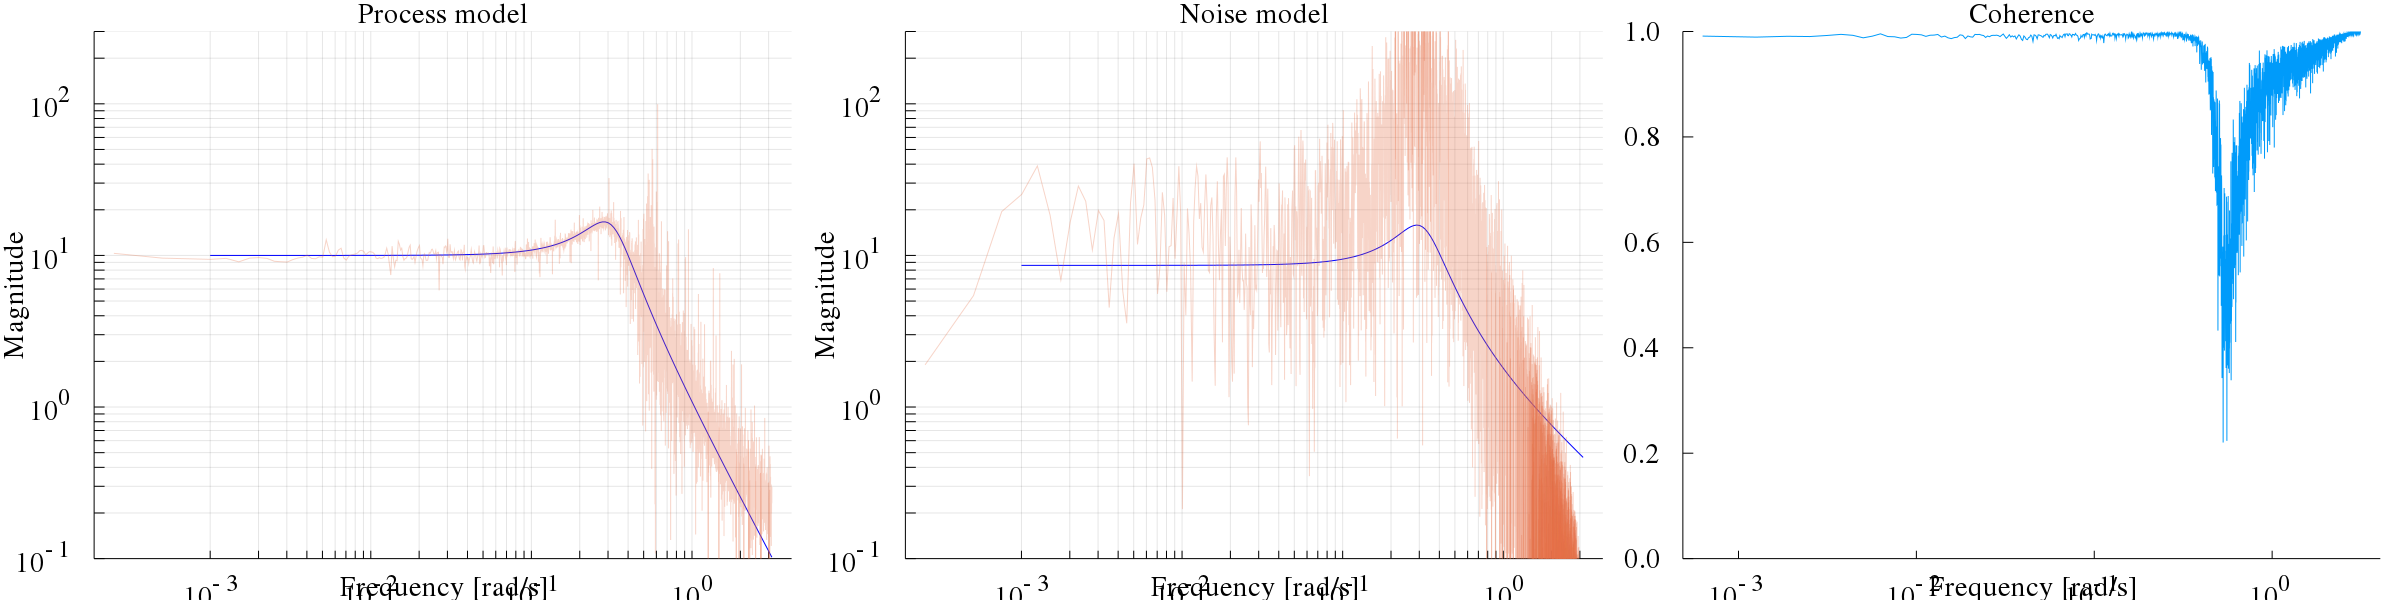
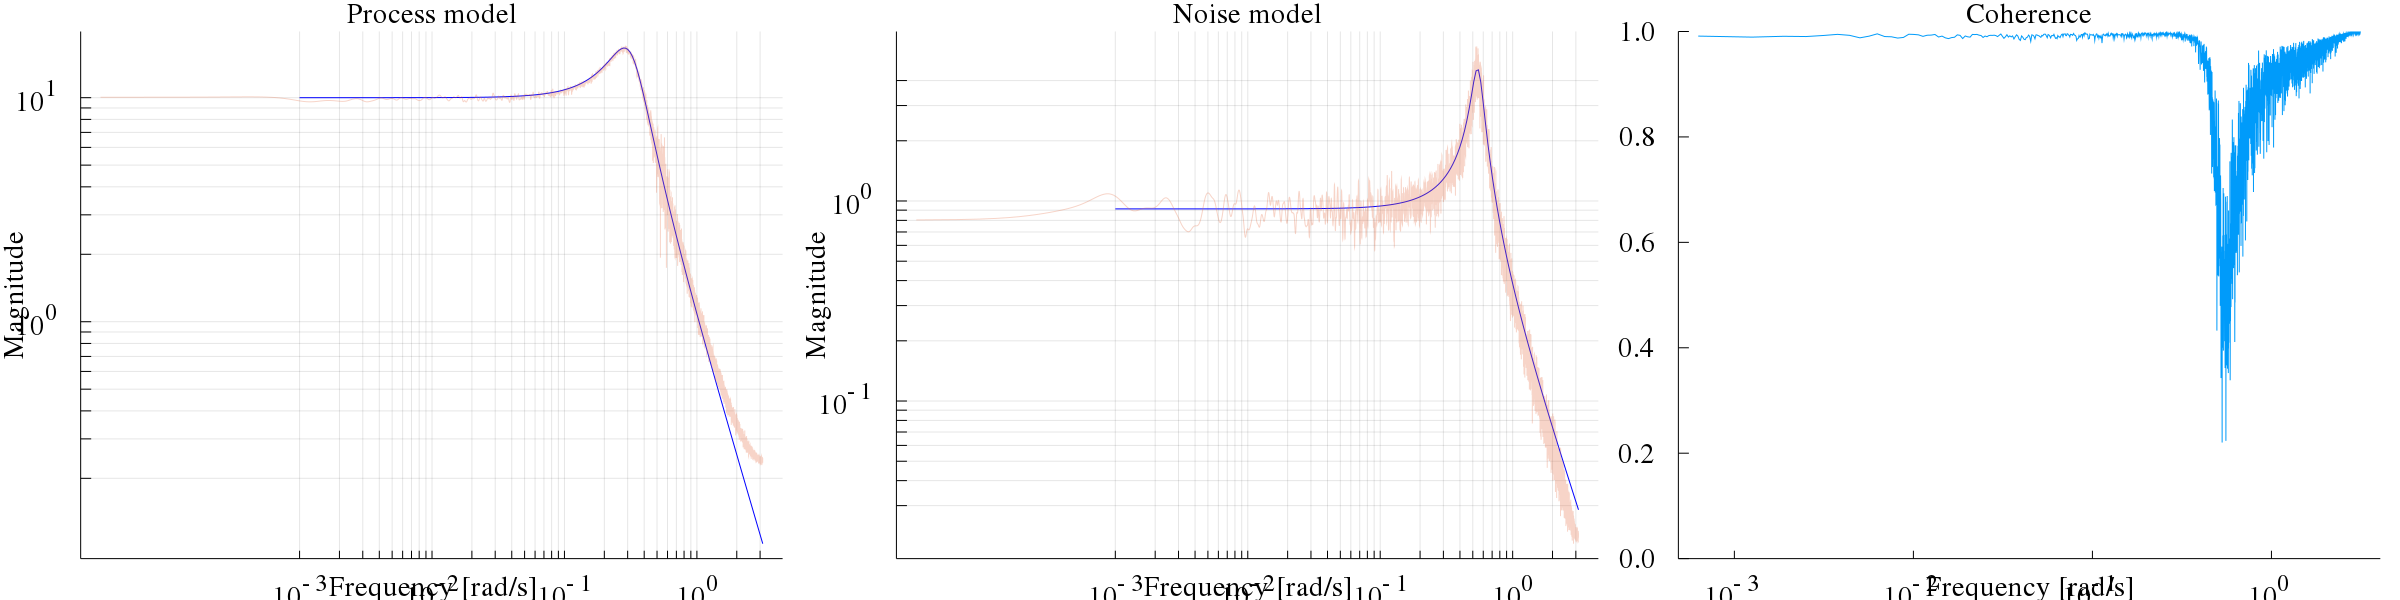
Updates to FRD and tfest

diff --git a/README.md b/README.md
@@ -234,16 +234,14 @@ We can now estimate the coherence function to get a feel for whether or nor our 
 k = coherence(h,y,u)  # Should be close to 1 if the system is linear and noise free
 k = coherence(h,yn,u) # Slightly lower values are obtained if the system is subject to measurement noise
 ```
-We can also estimate a transfer function using spectral techniques, the main entry point to this is the function `tfest`:
+We can also estimate a transfer function using spectral techniques, the main entry point to this is the function `tfest`, which returns a transfer-function estimate and an estimate of the power-spectral density of the noise (note, the unit of the PSD is squared compared to a transfer function, hence the `√N` when plotting it in the code below):
 ```julia
-G,N            = tfest(1,yn,u)
-noisemodel     = innovation_form(ss(sys), syse=ss(sysn))
-noisemodel.D .*= 0
-bodeplot([sys,noisemodel], exp10.(range(-3, stop=log10(pi), length=200)), layout=(1,3), plotphase=false, subplot=[1,2,2], size=(3*800, 600), ylims=(0.1,300), linecolor=:blue)
+G,N = tfest(1,yn,u)
+bodeplot([sys,sysn], exp10.(range(-3, stop=log10(pi), length=200)), layout=(1,3), plotphase=false, subplot=[1,2,2], size=(3*800, 600), ylims=(0.1,300), linecolor=:blue)
 
 coherenceplot!(1,yn,u, subplot=3)
 plot!(G, subplot=1, lab="G Est", alpha=0.3, title="Process model")
-plot!(N, subplot=2, lab="N Est", alpha=0.3, title="Noise model")
+plot!(√N, subplot=2, lab="N Est", alpha=0.3, title="Noise model")
 ```
 ![window](figs/bodecoher.png)
 
